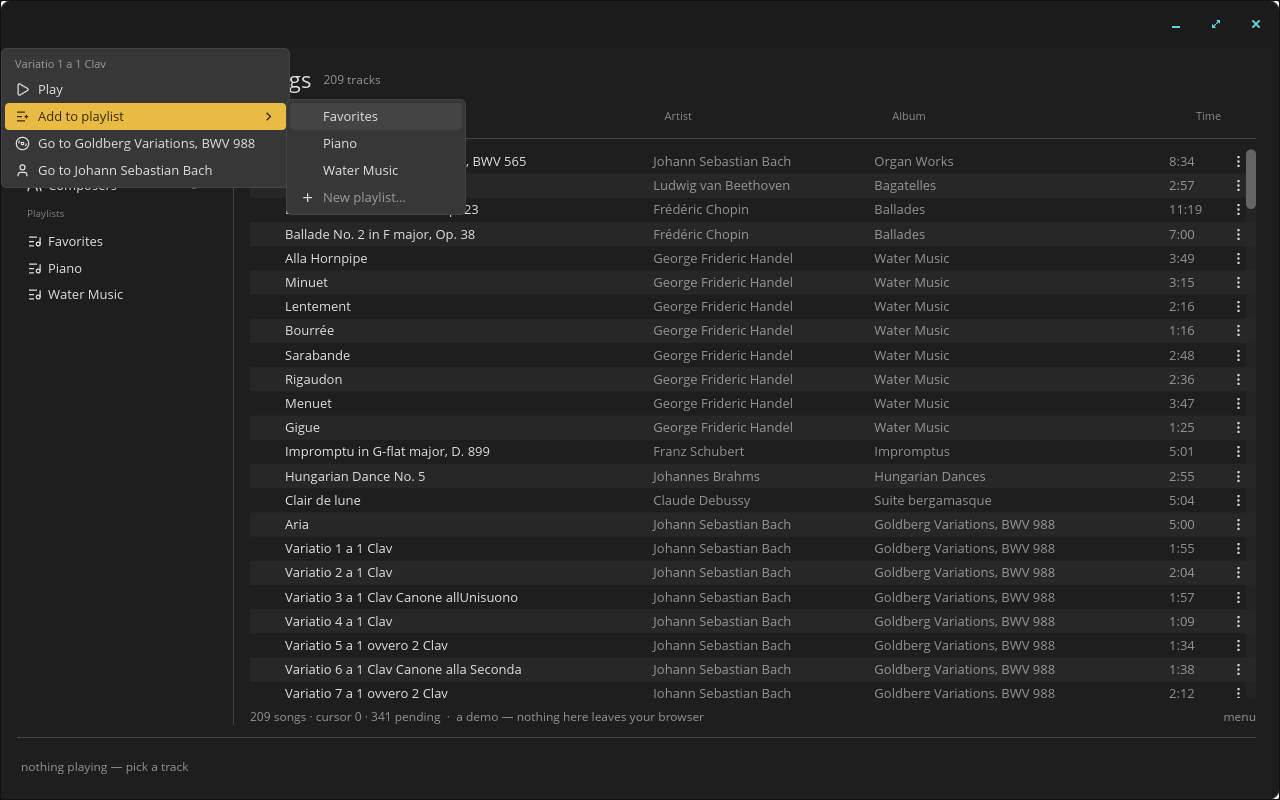
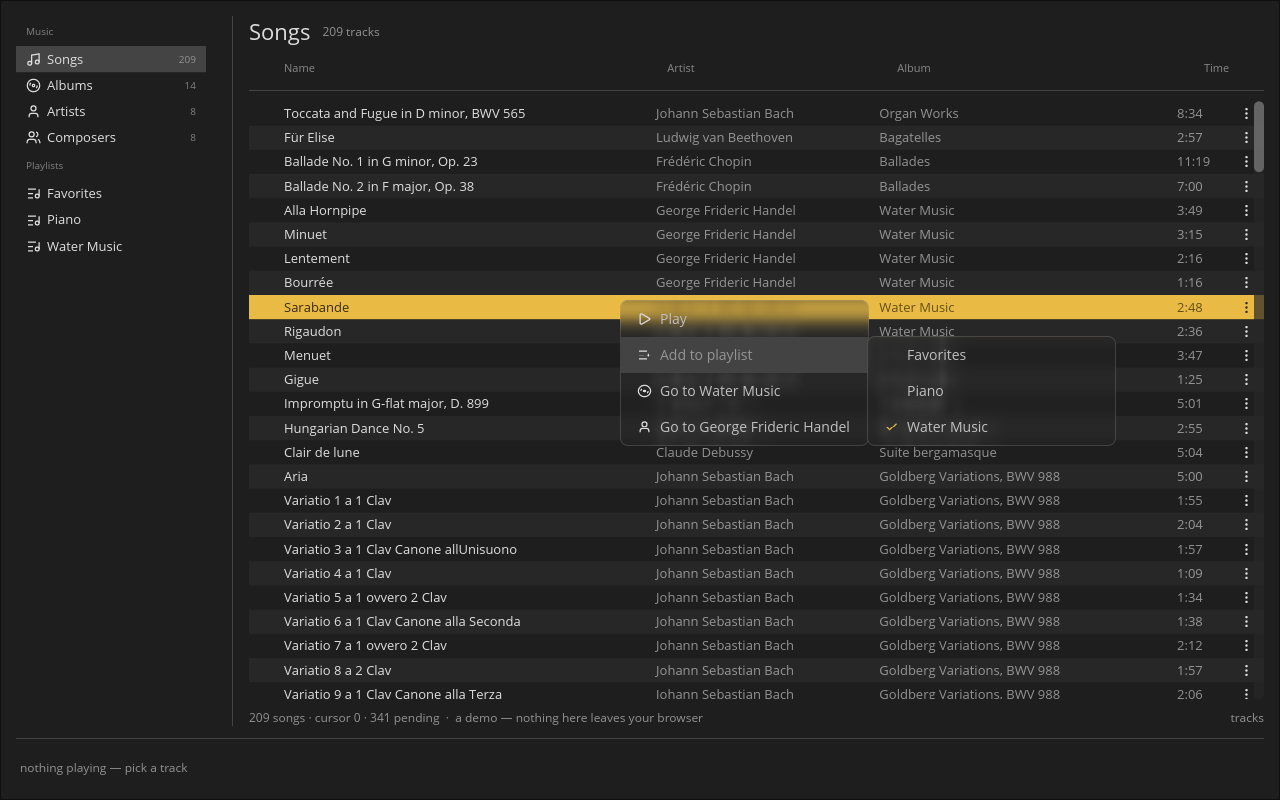
Add to playlist is a real submenu again, ticks and all
Their menu supports children, so `Add to playlist` is a `MenuTree` with one
row per playlist and a tick on the ones the track is already on. Toggling goes
straight to a mutation rather than through the picker's cursor.

The ticks need `playlists_of`, which wants `&mut` at the store where `view`
has `&self`, so the answer is cached — filled from `ContextMenu`'s `on_open`
rather than on every cursor move, because hovering down two hundred rows would
otherwise be two hundred queries for a menu nobody opened. That is the cost
SUBMENU_DWELL existed to avoid, met again from the other side.

Making a playlist stays with the picker: create_playlist and add_to_playlist
are two entries and the first one's id is not known until it has been applied.

And their default ItemWidth::Uniform(240) had to go — at that width `Go to
George Frideric Handel` wraps onto a second line inside a row whose height is
fixed, and clips. The setter takes any number, so RowMenu::width_for decides it
and nothing truncates.

57 tests, fmt clean.

Claude-Session: https://claude.ai/code/session_01XcBd33WHuwVJf6eCw7CpeG

Changed region(s): [[0.0, 0.0312, 1.0, 0.9062], [0.9688, 0.125, 1.0, 0.2812], [0.0312, 0.9375, 0.1562, 0.9688]]

diff --git a/iced/src/main.rs b/iced/src/main.rs
@@ -491,6 +491,11 @@ enum Message {
     OpenPicker,
     /// Move its cursor, by click rather than by `j`.
     PickerAt(usize),
+    /// libcosmic's menu just opened: read what the row under the cursor is
+    /// already on, so its submenu has ticks.
+    MenuOpened,
+    /// Toggle one of them, from that submenu.
+    MenuToggle(harken::Id<harken::tables::Playlist>, Id),
     /// The same, for the row menu.
     MenuAt(usize),
     /// Run the entry it is on.
@@ -1439,6 +1444,16 @@ struct App {
     picker: Option<Picker>,
     /// The three dots, or a right click.
     menu: Option<RowMenu>,
+    /// Which playlists the row under the cursor is on, for the submenu of
+    /// libcosmic's menu.
+    ///
+    /// **Cached because `view` cannot ask.** `playlists_of` wants `&mut` at
+    /// the store and a view has `&self`, so the answer has to be in hand
+    /// before the menu is built. Filled from `ContextMenu`'s `on_open` rather
+    /// than on every cursor move: hovering down two hundred rows would
+    /// otherwise be two hundred queries for a menu nobody opened, which is
+    /// the cost `SUBMENU_DWELL` used to exist to avoid.
+    menu_lists: Vec<(harken::Id<harken::tables::Playlist>, String, bool)>,
     /// How big the window is, so a menu opened near an edge can open the
     /// other way. Seeded with what `main` asks for and kept in step by
     /// `window::resize_events`.
@@ -1963,6 +1978,7 @@ impl App {
             help: false,
             picker: None,
             menu: None,
+            menu_lists: Vec::new(),
             nav: Nav::Push,
             routed: None,
             cursor: cosmic::iced::Point::ORIGIN,
@@ -3233,6 +3249,52 @@ impl App {
                 }
                 Ok(())
             }
+            Message::MenuOpened => {
+                let at = self.at(Pane::Tracks);
+                let Some(peer) = &mut self.peer else {
+                    return Task::none();
+                };
+                let Some(item) = peer.rows().get(at).cloned() else {
+                    return Task::none();
+                };
+                let mut store = peer.client.store();
+                let on: std::collections::BTreeSet<_> = harken::playlists_of(&mut store, item.id)
+                    .unwrap_or_default()
+                    .into_iter()
+                    .map(|p| p.id)
+                    .collect();
+                self.menu_lists = harken::playlists(&mut store)
+                    .unwrap_or_default()
+                    .into_iter()
+                    .map(|p| (p.id, p.name, on.contains(&p.id)))
+                    .collect();
+                drop(store);
+                Ok(())
+            }
+            Message::MenuToggle(list, media) => {
+                // Marked here rather than by re-reading, the way the picker
+                // does it: the answer is known and a query per tap is a query
+                // per tap.
+                let was = match self.menu_lists.iter_mut().find(|(id, _, _)| *id == list) {
+                    Some(row) => {
+                        row.2 = !row.2;
+                        !row.2
+                    }
+                    None => false,
+                };
+                let outcome = match &mut self.peer {
+                    Some(peer) => {
+                        let m = if was {
+                            mutators::remove_from_playlist(list, media)
+                        } else {
+                            mutators::add_to_playlist(list, media)
+                        };
+                        peer.client.mutate(m).map(|_| ()).map_err(|e| e.to_string())
+                    }
+                    None => Ok(()),
+                };
+                outcome
+            }
             Message::PickerActivate => {
                 // The last row makes a playlist; every other row toggles one.
                 let Some(picker) = &mut self.picker else {
@@ -3690,7 +3752,7 @@ impl App {
     ///
     /// `RowMenu::entries` is still the one definition of what is in it, so the
     /// entries did not move — only what draws them.
-    fn row_menu_trees(&self) -> Option<Vec<cosmic::widget::menu::Tree<Message>>> {
+    fn row_menu_trees(&self) -> Option<(Vec<cosmic::widget::menu::Tree<Message>>, u16)> {
         let peer = self.peer.as_ref()?;
         let item = peer.rows().get(self.at(Pane::Tracks))?;
 
@@ -3706,11 +3768,20 @@ impl App {
             width: 0.0,
         };
 
-        Some(
-            menu.entries()
+        let entries = menu.entries();
+        let width = RowMenu::width_for(&entries) as u16;
+
+        Some((
+            entries
                 .into_iter()
                 .map(|entry| {
-                    cosmic::widget::menu::Tree::from(Element::from(
+                    // The one entry that owns a submenu, asked the way the
+                    // chevron and the dwell used to ask it — `matches!` on the
+                    // message rather than a flag beside the label to keep in
+                    // step with it.
+                    let owns_submenu = matches!(entry.message, Message::OpenPicker);
+
+                    let row = Element::from(
                         cosmic::widget::menu::menu_button(vec![
                             icon::line(entry.glyph, false).into(),
                             cosmic::widget::Space::new()
@@ -3718,11 +3789,46 @@ impl App {
                                 .into(),
                             text(entry.label).into(),
                         ])
-                        .on_press(entry.message),
-                    ))
+                        .on_press_maybe((!owns_submenu).then_some(entry.message)),
+                    );
+
+                    if !owns_submenu {
+                        return cosmic::widget::menu::Tree::from(row);
+                    }
+
+                    // Every playlist, each ticked or not, and nothing else —
+                    // the question the sheet on the phone asks. Making one is
+                    // not here: `create_playlist` and `add_to_playlist` are
+                    // two entries and the first one's id is not known until it
+                    // has been applied, so that still belongs to the picker,
+                    // which `a` still opens.
+                    let children: Vec<cosmic::widget::menu::Tree<Message>> = self
+                        .menu_lists
+                        .iter()
+                        .map(|(list, name, on)| {
+                            cosmic::widget::menu::Tree::from(Element::from(
+                                cosmic::widget::menu::menu_button(vec![
+                                    match on {
+                                        true => Element::from(icon::tick(false)),
+                                        false => cosmic::widget::Space::new()
+                                            .width(Length::Fixed(icon::TRANSPORT))
+                                            .into(),
+                                    },
+                                    cosmic::widget::Space::new()
+                                        .width(Length::Fixed(ENTRY_GAP))
+                                        .into(),
+                                    text(name.clone()).into(),
+                                ])
+                                .on_press(Message::MenuToggle(*list, item.id)),
+                            ))
+                        })
+                        .collect();
+
+                    cosmic::widget::menu::Tree::with_children(row, children)
                 })
                 .collect(),
-        )
+            width,
+        ))
     }
 
     fn view_menu(menu: &RowMenu, focused: bool) -> Element<'_, Message> {
@@ -6629,7 +6735,16 @@ impl App {
         // opening, the placement and the dismissal, and on Wayland it can be a
         // real popup surface, which `pin` inside a `stack!` can never be.
         let base: Element<'_, Message> = match self.row_menu_trees() {
-            Some(trees) => cosmic::widget::context_menu(base, Some(trees)).into(),
+            Some((trees, width)) => cosmic::widget::context_menu(base, Some(trees))
+                // **Not their default 240.** At that width `Go to George
+                // Frideric Handel` wraps onto a second line inside a row whose
+                // height is fixed, and the second line is clipped — which is
+                // the bug this file already documents one section up, met
+                // again in their widget. `ItemWidth::Uniform` takes any
+                // number, so `RowMenu::width_for` still decides it.
+                .item_width(cosmic::widget::menu::ItemWidth::Uniform(width))
+                .on_open(Message::MenuOpened)
+                .into(),
             None => base.into(),
         };
 

diff --git a/CLAUDE.md b/CLAUDE.md
@@ -3299,8 +3299,23 @@ harken's four entries, and the gold cursor row blurring through the top of it.
 decides for itself when it is up — so the ⋯ button and `m` are no longer ways
 in, and a right click is the only one. The ⋯ column stays drawn because the
 geometry does: `dots_x` and `columns_in` divide the same width. The 200ms
-submenu dwell goes with it, and `Add to playlist` opens the centred picker
-rather than a panel beside the entry.
+submenu dwell goes with it, so a submenu opens the instant the pointer crosses
+its parent.
+
+**`Add to playlist` is a real submenu, and the ticks cost a cache.**
+`playlists_of` wants `&mut` at the store and `view` has `&self`, so the answer
+has to be in hand before the menu is built. It is filled from `ContextMenu`'s
+`on_open` rather than on every cursor move — hovering down two hundred rows
+would otherwise be two hundred queries for a menu nobody opened, which is the
+cost `SUBMENU_DWELL` existed to avoid, met again from the other side. Making a
+playlist is still the picker's: `create_playlist` and `add_to_playlist` are two
+entries and the first one's id is not known until it has been applied.
+
+**Their default width had to go.** `ItemWidth::Uniform(240)` wraps `Go to
+George Frideric Handel` onto a second line inside a row whose height is fixed,
+and clips it — which is the bug one section up, met again in their widget. The
+setter takes any number, so `RowMenu::width_for` still decides it and nothing
+truncates. `submenu.png` is the result.
 
 **And the old menu is kept rather than deleted**, at the owner's request: the
 `RowMenu` struct, `view_menu`, `menu_origin`, `submenu_origin`, the dwell and
